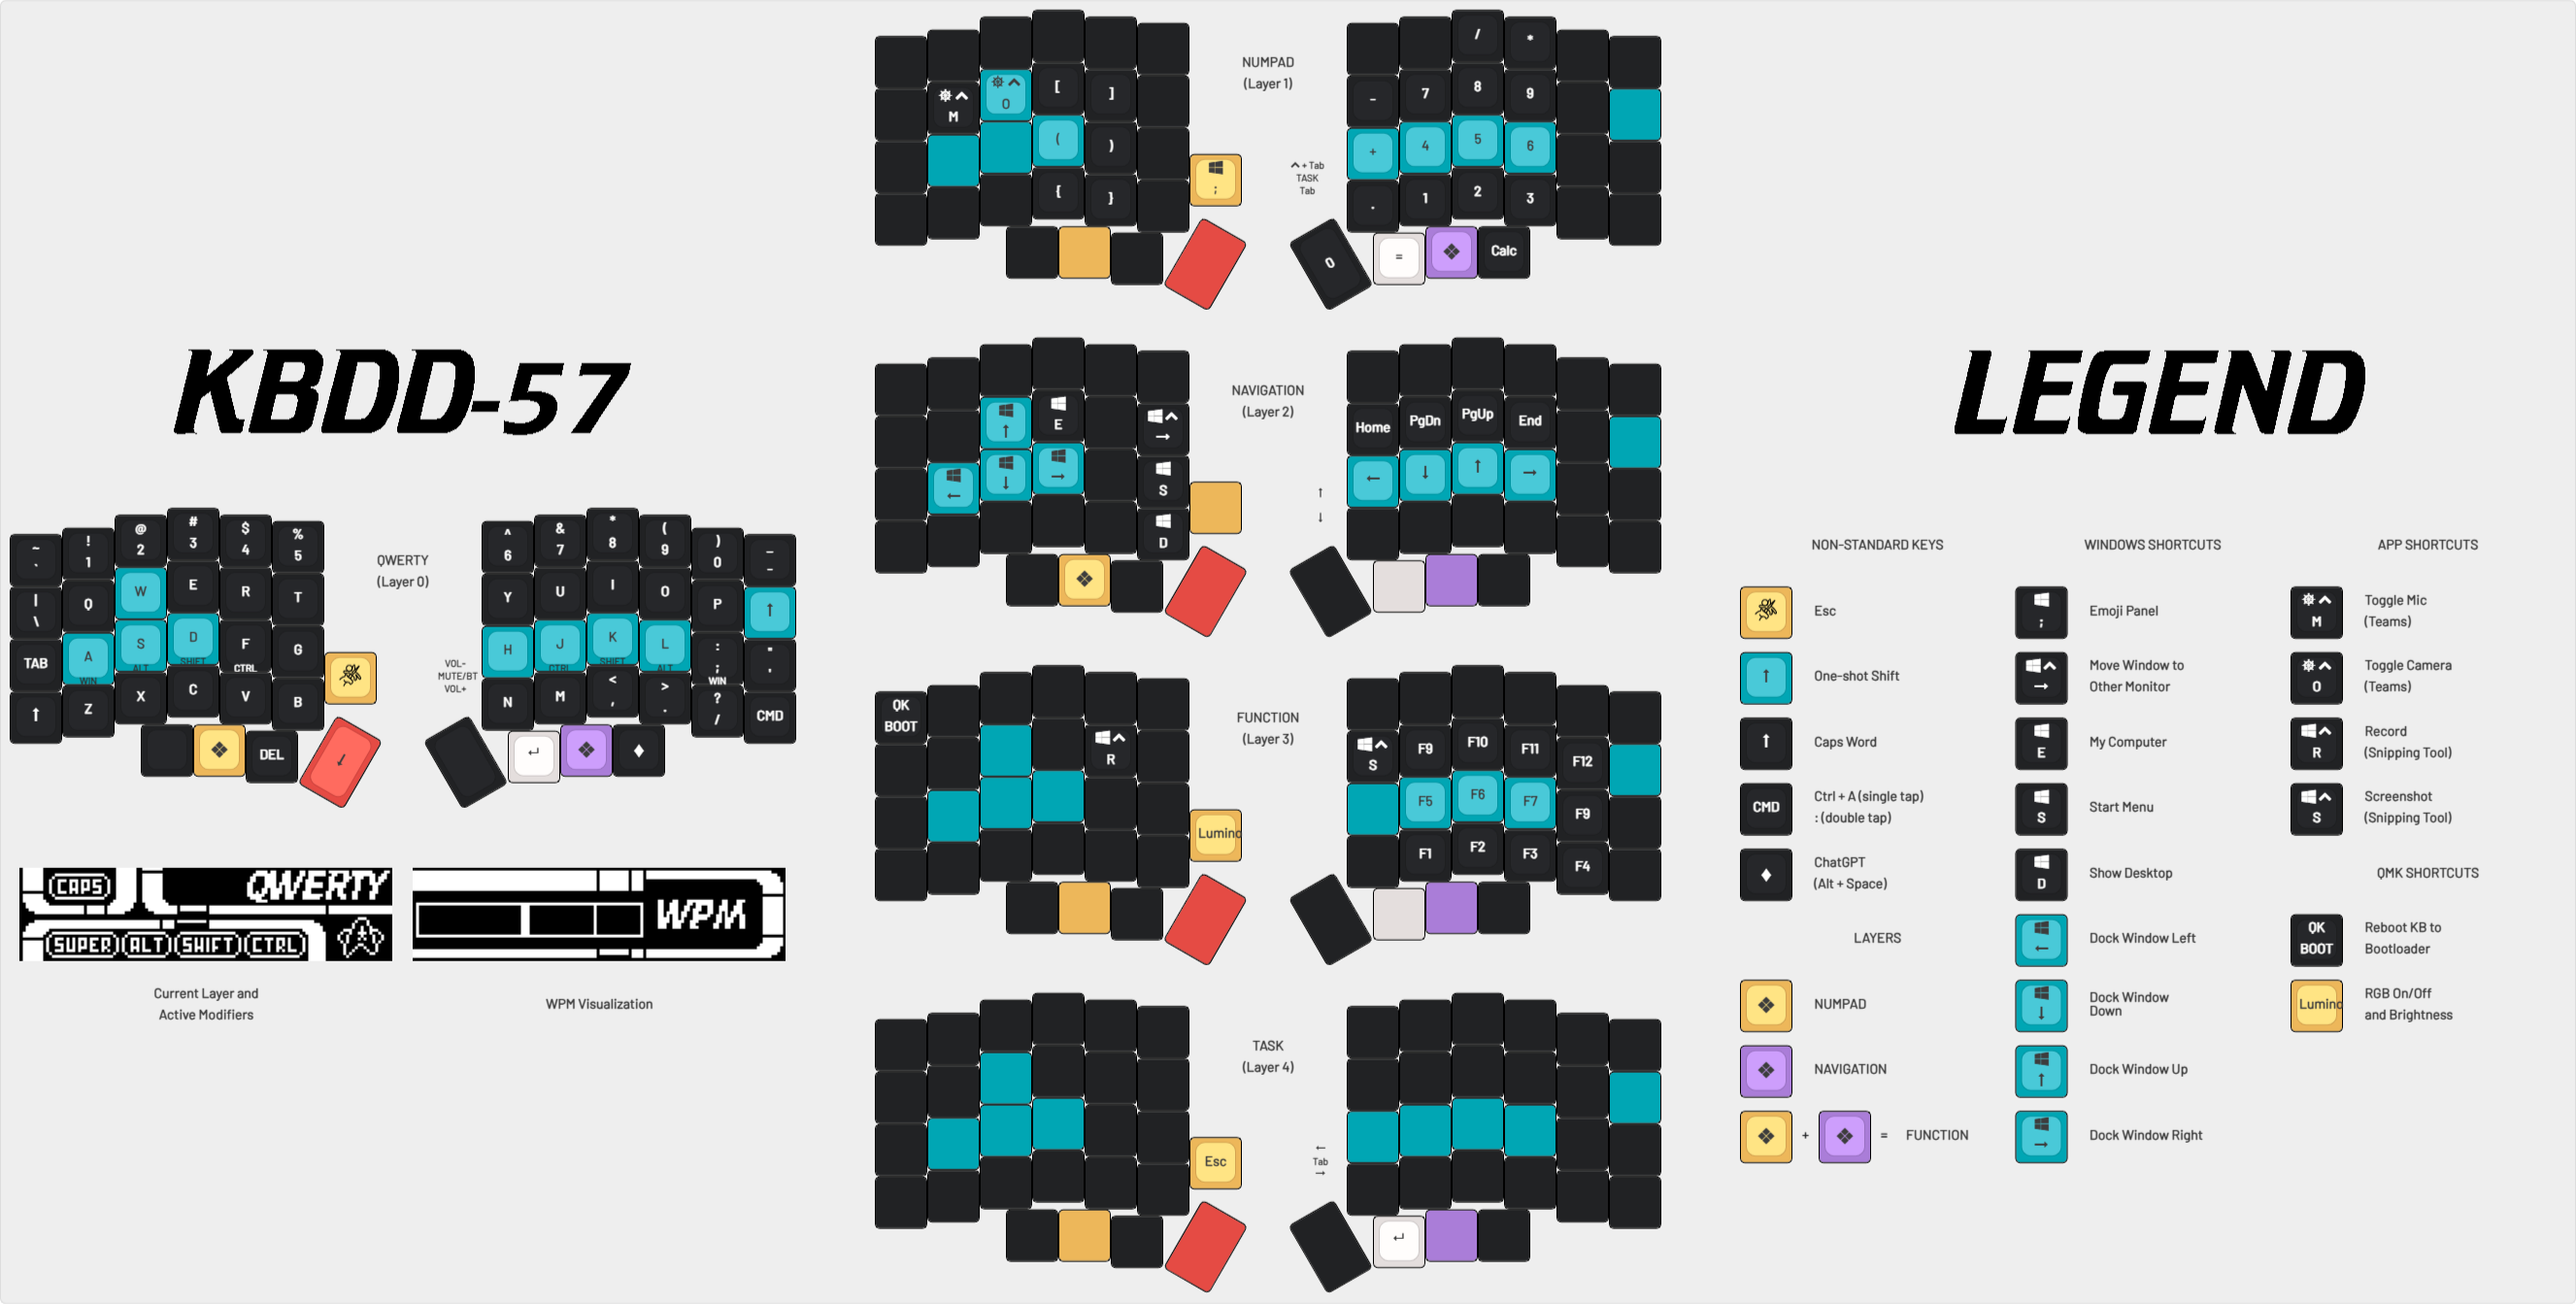
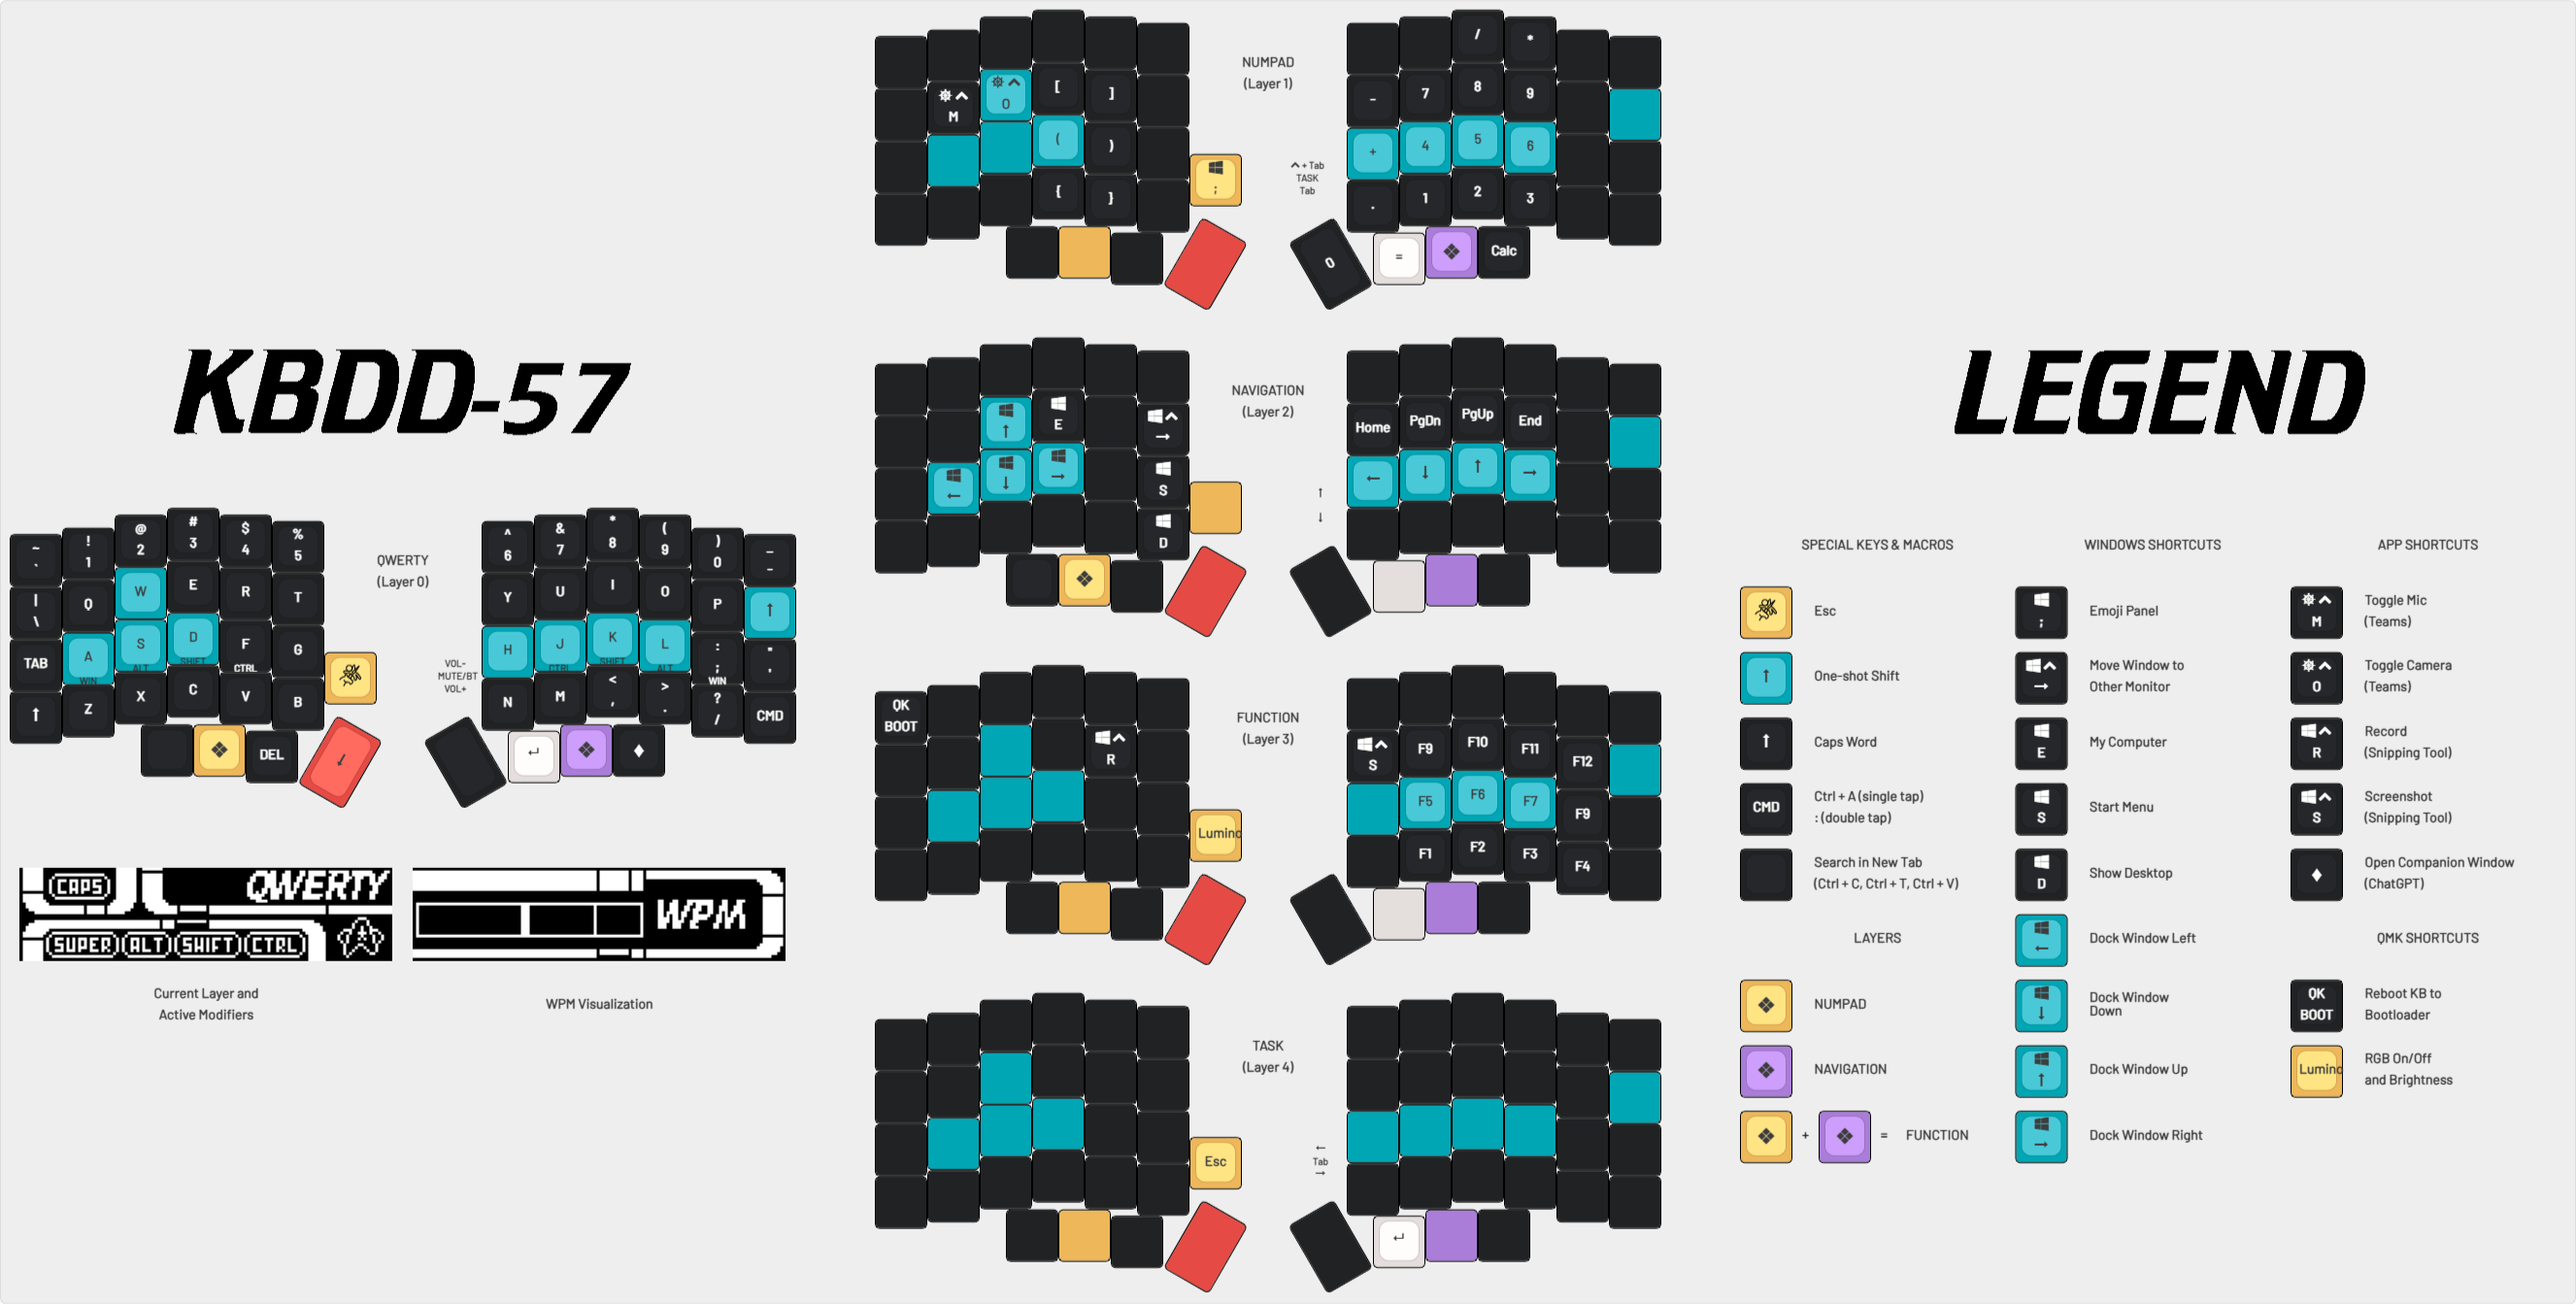
Add "search in next tab" macro

Changed region(s): [[0.8654, 0.6411, 0.9891, 0.8548], [0.7109, 0.6411, 0.7418, 0.7022], [0.7109, 0.3969, 0.7727, 0.4274]]

diff --git a/keyboards/boardsource/lulu/keymaps/kbdd/keymap.c b/keyboards/boardsource/lulu/keymaps/kbdd/keymap.c
@@ -63,7 +63,7 @@ const uint16_t PROGMEM keymaps[][MATRIX_ROWS][MATRIX_COLS] = {
     _______, _______, G_UP   , KC_MYCM, _______, G_SWDSK,                   KC_HOME, KC_PGDN, KC_PGUP, KC_END , _______, _______,
     _______, G_LEFT , G_DOWN , G_RIGHT, _______, G_START,                   KC_LEFT, KC_DOWN, KC_UP  , KC_RGHT, _______, _______,
     _______, _______, _______, _______, _______, G_DESK , _______, _______, _______, _______, _______, _______, _______, _______,
-                               _______, _______, _______, _______, _______, _______, _______, _______
+                               CUS_SNT, _______, _______, _______, _______, _______, _______, _______
 ),
 
 [_FUNC] = LAYOUT(
@@ -168,7 +168,6 @@ void matrix_scan_user(void) {
 }
 
 bool process_record_user(uint16_t keycode, keyrecord_t *record) {
-
     if (record->event.pressed) {
         if (task_layer_active) {
             task_layer_timer = timer_read32();
@@ -182,6 +181,17 @@ bool process_record_user(uint16_t keycode, keyrecord_t *record) {
                 layer_on(_TASK);
                 task_layer_active = true;
                 task_layer_timer = timer_read32();
+            }
+            return false;
+        case CUS_SNT:
+            if (record->event.pressed) {
+                tap_code16(C(KC_C));
+                wait_ms(100);
+                tap_code16(C(KC_T));
+                wait_ms(100);
+                tap_code16(C(KC_V));
+                wait_ms(100);
+                tap_code(KC_ENT);
             }
             return false;
 

diff --git a/keyboards/boardsource/lulu/keymaps/kbdd/constants.h b/keyboards/boardsource/lulu/keymaps/kbdd/constants.h
@@ -2,7 +2,7 @@
 
 enum layers { _BASE, _NUM, _NAV, _FUNC, _TASK };
 enum { TD_CMD, TD_BLUETOOTH_MUTE };
-enum custom_keycodes { CUS_TSK = SAFE_RANGE };
+enum custom_keycodes { CUS_TSK = SAFE_RANGE, CUS_SNT };
 
 // simple layers, no tri-layer
 #define NUM MO(_NUM)
